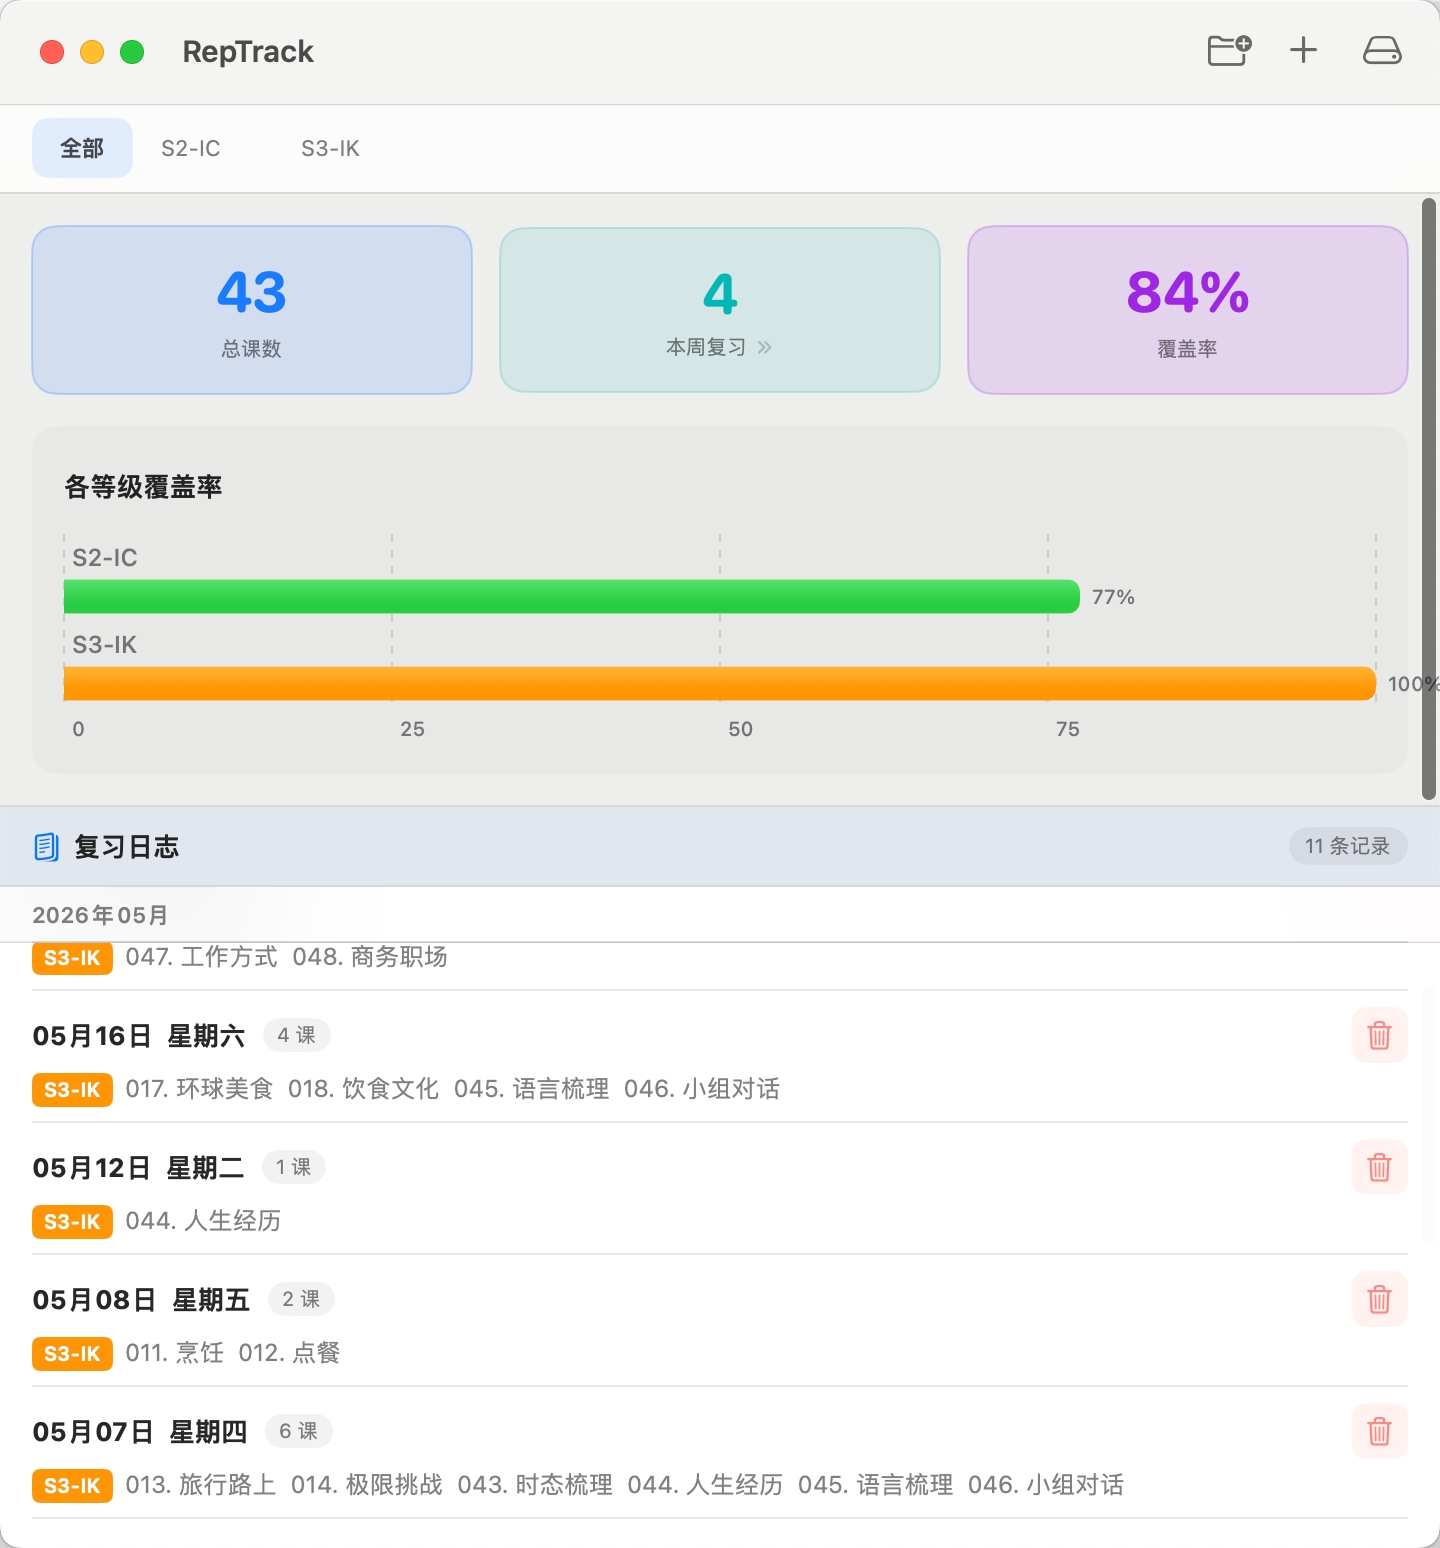
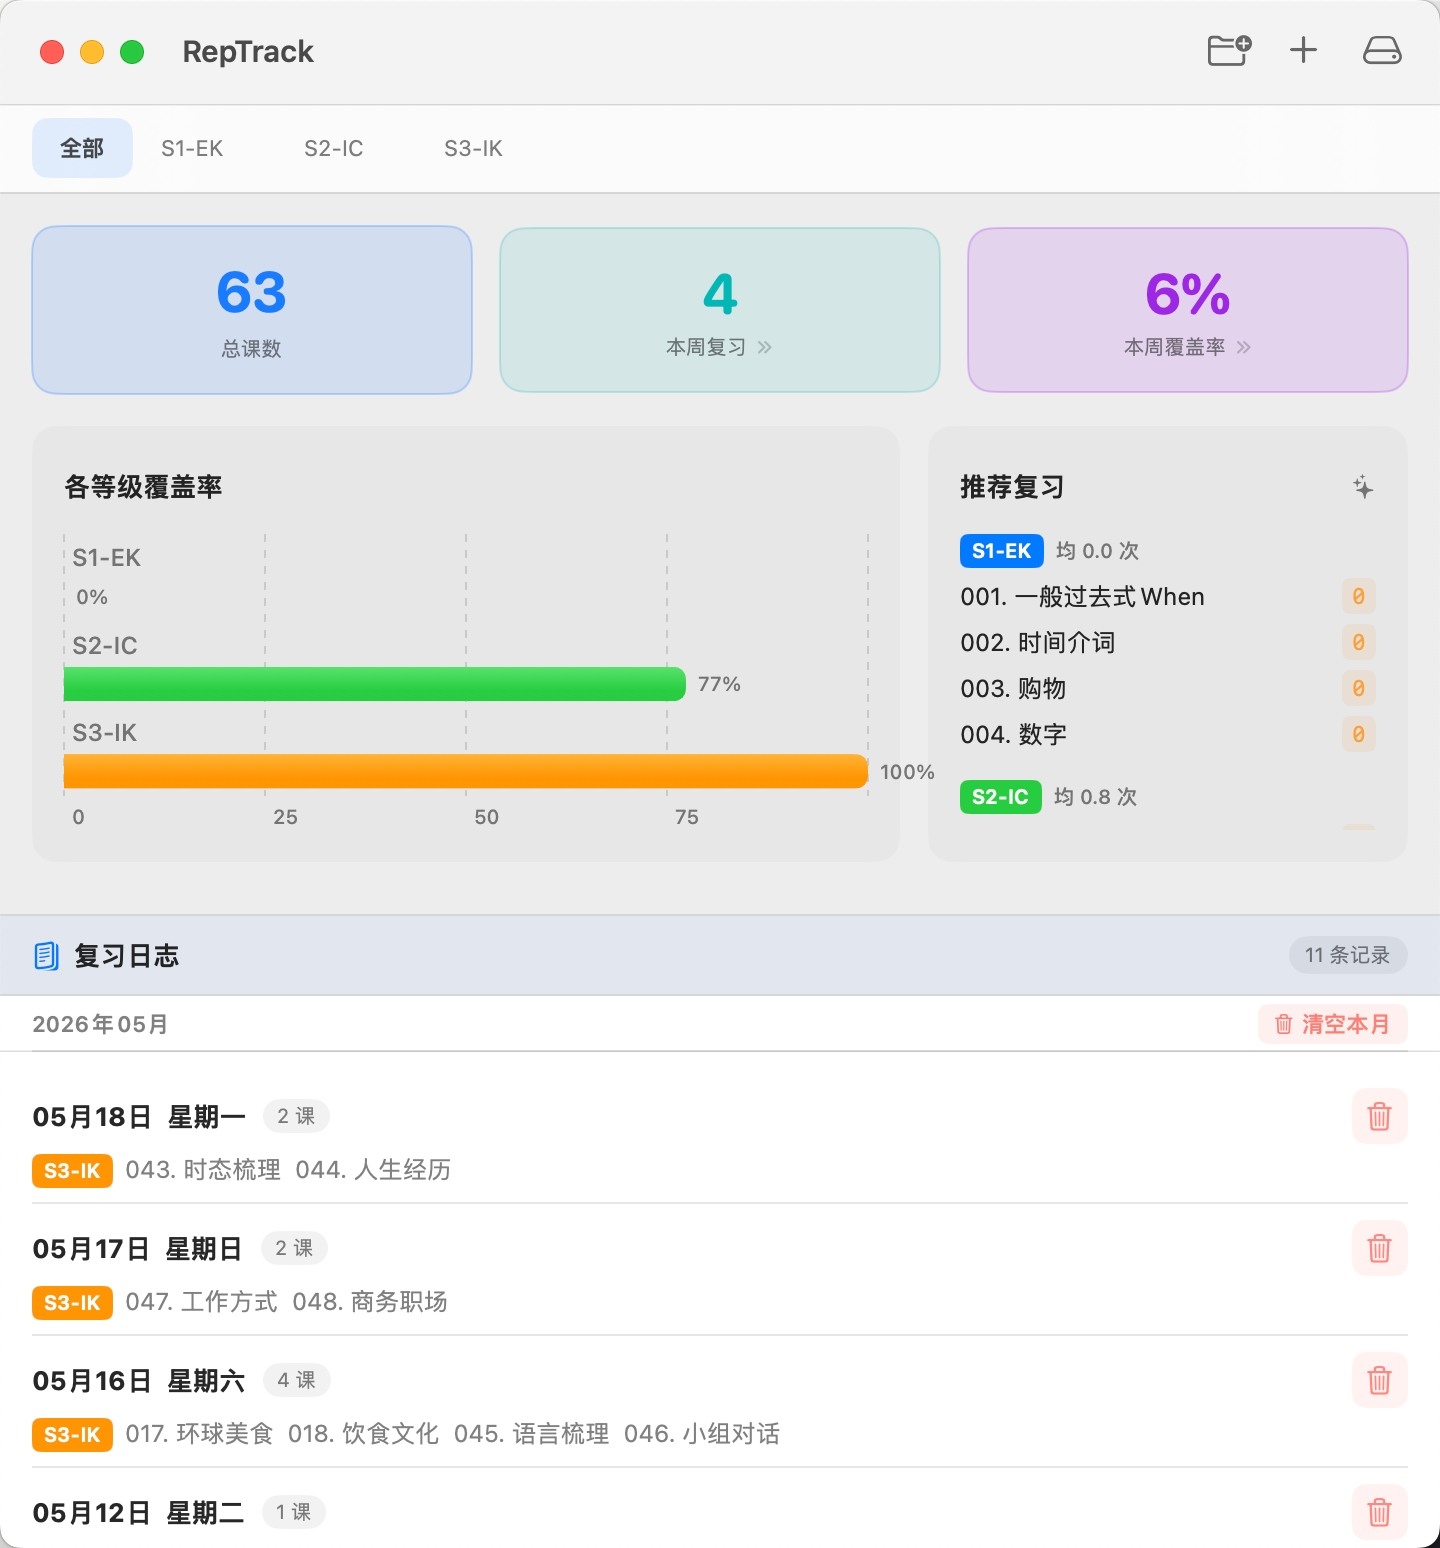
Sync lessons on re-import + update README screenshot
importSingleLevel now removes lessons whose files no longer exist in the
folder and cascades the deletion into sessions (removing orphaned lessonIds,
dropping empty items/sessions). Title renames continue to work as before.

diff --git a/RepTrack/DataStore.swift b/RepTrack/DataStore.swift
@@ -257,14 +257,34 @@ final class DataStore {
         }
 
         if let idx = levels.firstIndex(where: { $0.id == levelId }) {
+            // Update titles for existing lessons; append genuinely new ones
             for lesson in newLessons {
-                // Find integer-equal existing lesson (handles "2" vs "002" duplicates)
                 if let existIdx = levels[idx].lessons.firstIndex(where: { sameNumber($0.number, lesson.number) }) {
                     if !lesson.title.isEmpty {
                         levels[idx].lessons[existIdx].title = lesson.title
                     }
                 } else {
                     levels[idx].lessons.append(lesson)
+                }
+            }
+            // Remove lessons whose files no longer exist in the folder
+            let removedIds = Set(
+                levels[idx].lessons
+                    .filter { existing in !newLessons.contains(where: { sameNumber($0.number, existing.number) }) }
+                    .map(\.id)
+            )
+            if !removedIds.isEmpty {
+                levels[idx].lessons.removeAll { removedIds.contains($0.id) }
+                // Clean up session references to deleted lessons
+                sessions = sessions.compactMap { s in
+                    var copy = s
+                    copy.items = copy.items.compactMap { item in
+                        guard item.levelId == levelId else { return item }
+                        var i = item
+                        i.lessonIds.removeAll { removedIds.contains($0) }
+                        return i.lessonIds.isEmpty ? nil : i
+                    }
+                    return copy.items.isEmpty ? nil : copy
                 }
             }
             levels[idx].lessons = deduplicatedByNumber(levels[idx].lessons)